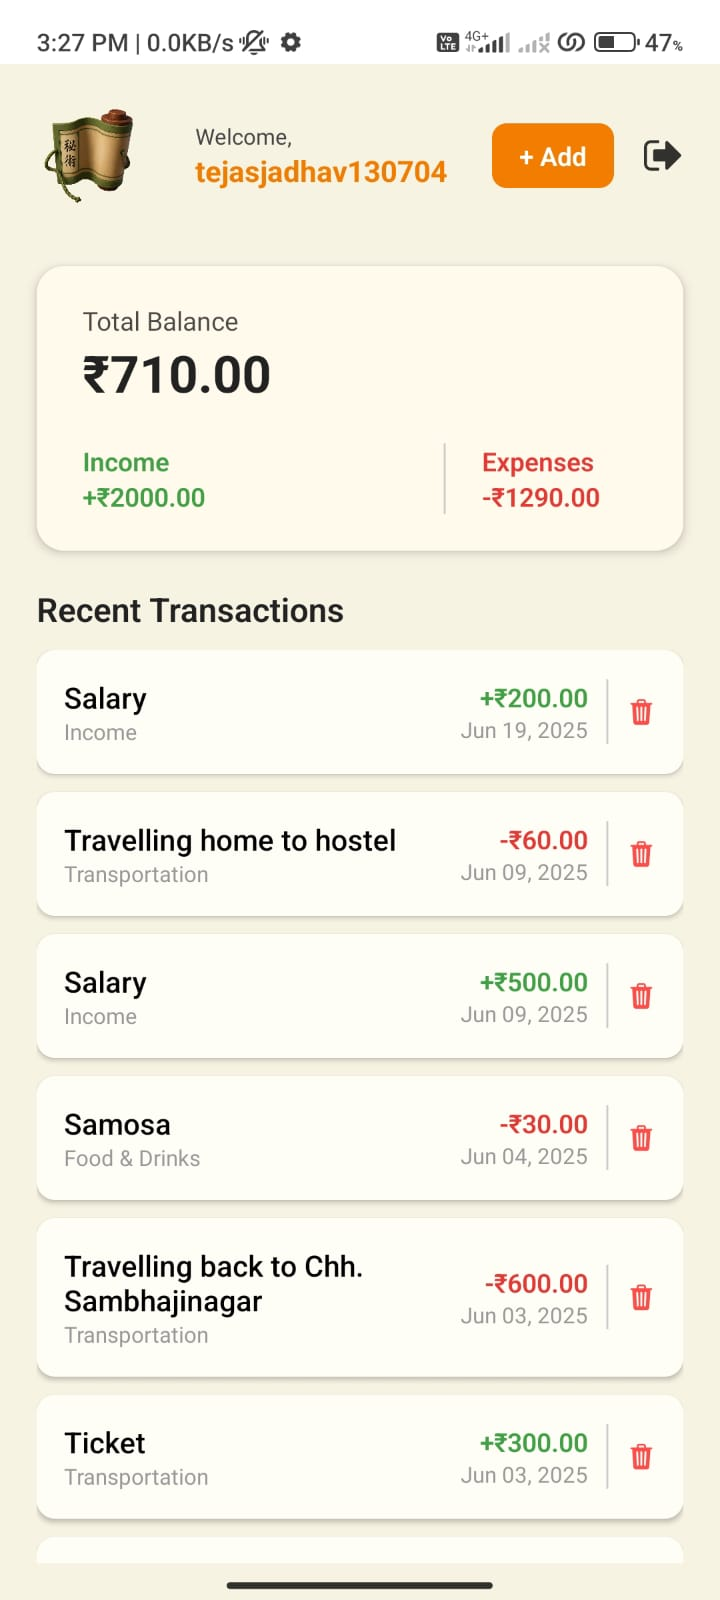
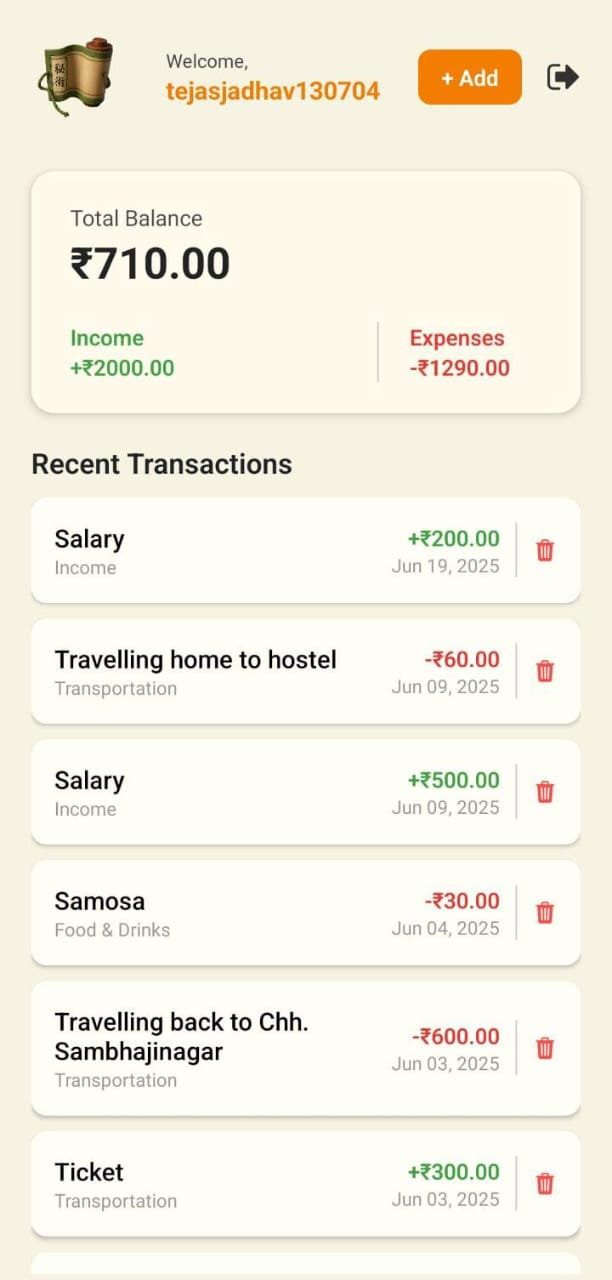
added images

diff --git a/Readme.md b/Readme.md
@@ -26,6 +26,15 @@ Inspired by the aesthetics of *Naruto*, this app turns daily expense management 
 </div>
 
 
+
+<div align="center">
+  <img src="./assets/screenshots/delete.jpg" alt="Sign Up" width="200"/>
+  <img src="./assets/screenshots/loader.jpg" alt="Login" width="200"/>
+  <img src="./assets/screenshots/new_transaction2.jpg" alt="Transaction" width="200"/>
+  <img src="./assets/screenshots/signout.jpg" alt="signout" width="200"/>
+</div>
+
+
 ---
 
 ## 🔧 Features
